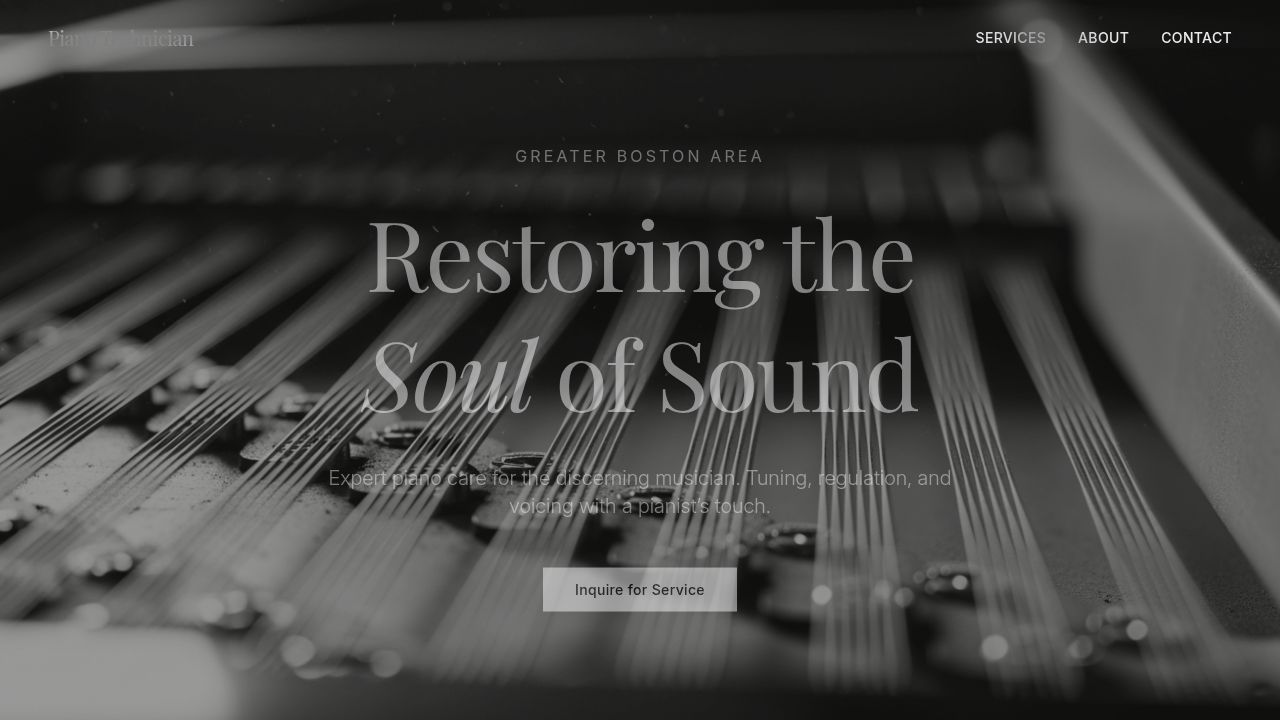
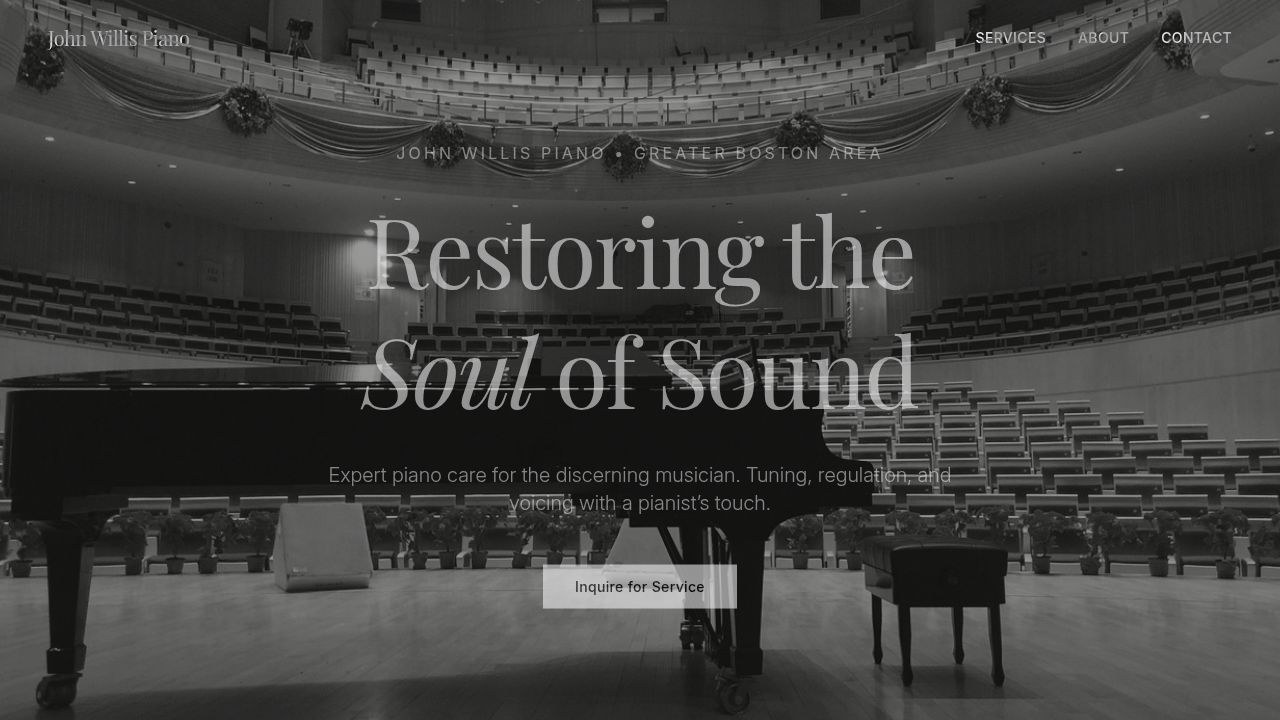
Adjust photo position and update personal text to better reflect passion
Update the 'About' section image positioning to emphasize the tuning hammer and revise the accompanying text to convey a lifelong passion for piano and dedication to helping musicians.

Replit-Commit-Author: Agent
Replit-Commit-Session-Id: ba82d38e-6283-4411-9a78-218a499018bf
Replit-Commit-Checkpoint-Type: full_checkpoint
Replit-Commit-Event-Id: b287f493-ed65-443a-866b-dd611e17e66a
Replit-Commit-Screenshot-Url: https://storage.googleapis.com/screenshot-production-us-central1/56d7194c-0567-4093-a1ed-1003798cb69c/ba82d38e-6283-4411-9a78-218a499018bf/LAMs08R
Replit-Helium-Checkpoint-Created: true

diff --git a/client/src/components/sections/About.tsx b/client/src/components/sections/About.tsx
@@ -17,7 +17,7 @@ export default function About() {
                 <img 
                   src={actionImage} 
                   alt="John Willis Tuning Piano" 
-                  className="w-full h-full object-cover grayscale hover:grayscale-0 transition-all duration-700"
+                  className="w-full h-full object-cover object-[25%_center] grayscale hover:grayscale-0 transition-all duration-700"
                 />
              </div>
              <div className="absolute -bottom-6 -right-6 w-48 h-48 bg-background border border-border p-6 flex items-center justify-center hidden md:flex">
@@ -45,7 +45,7 @@ export default function About() {
                 My background includes over six years of intensive work in high-end dealerships, rebuilding shops, and university concert halls. This diverse experience has honed my ear for tone and my hands for precision.
               </p>
               <p>
-                I care deeply about the musical power and beauty of the greatest instrument on earth. My goal is not just to tune your piano, but to help you rediscover the joy of playing it.
+                I have been an active pianist all my life, with a central vision of helping other musicians to the best of my ability. I care deeply about the joy experienced at the keyboard, and my work is dedicated to bringing out the full musical power and beauty of your instrument.
               </p>
             </div>
 